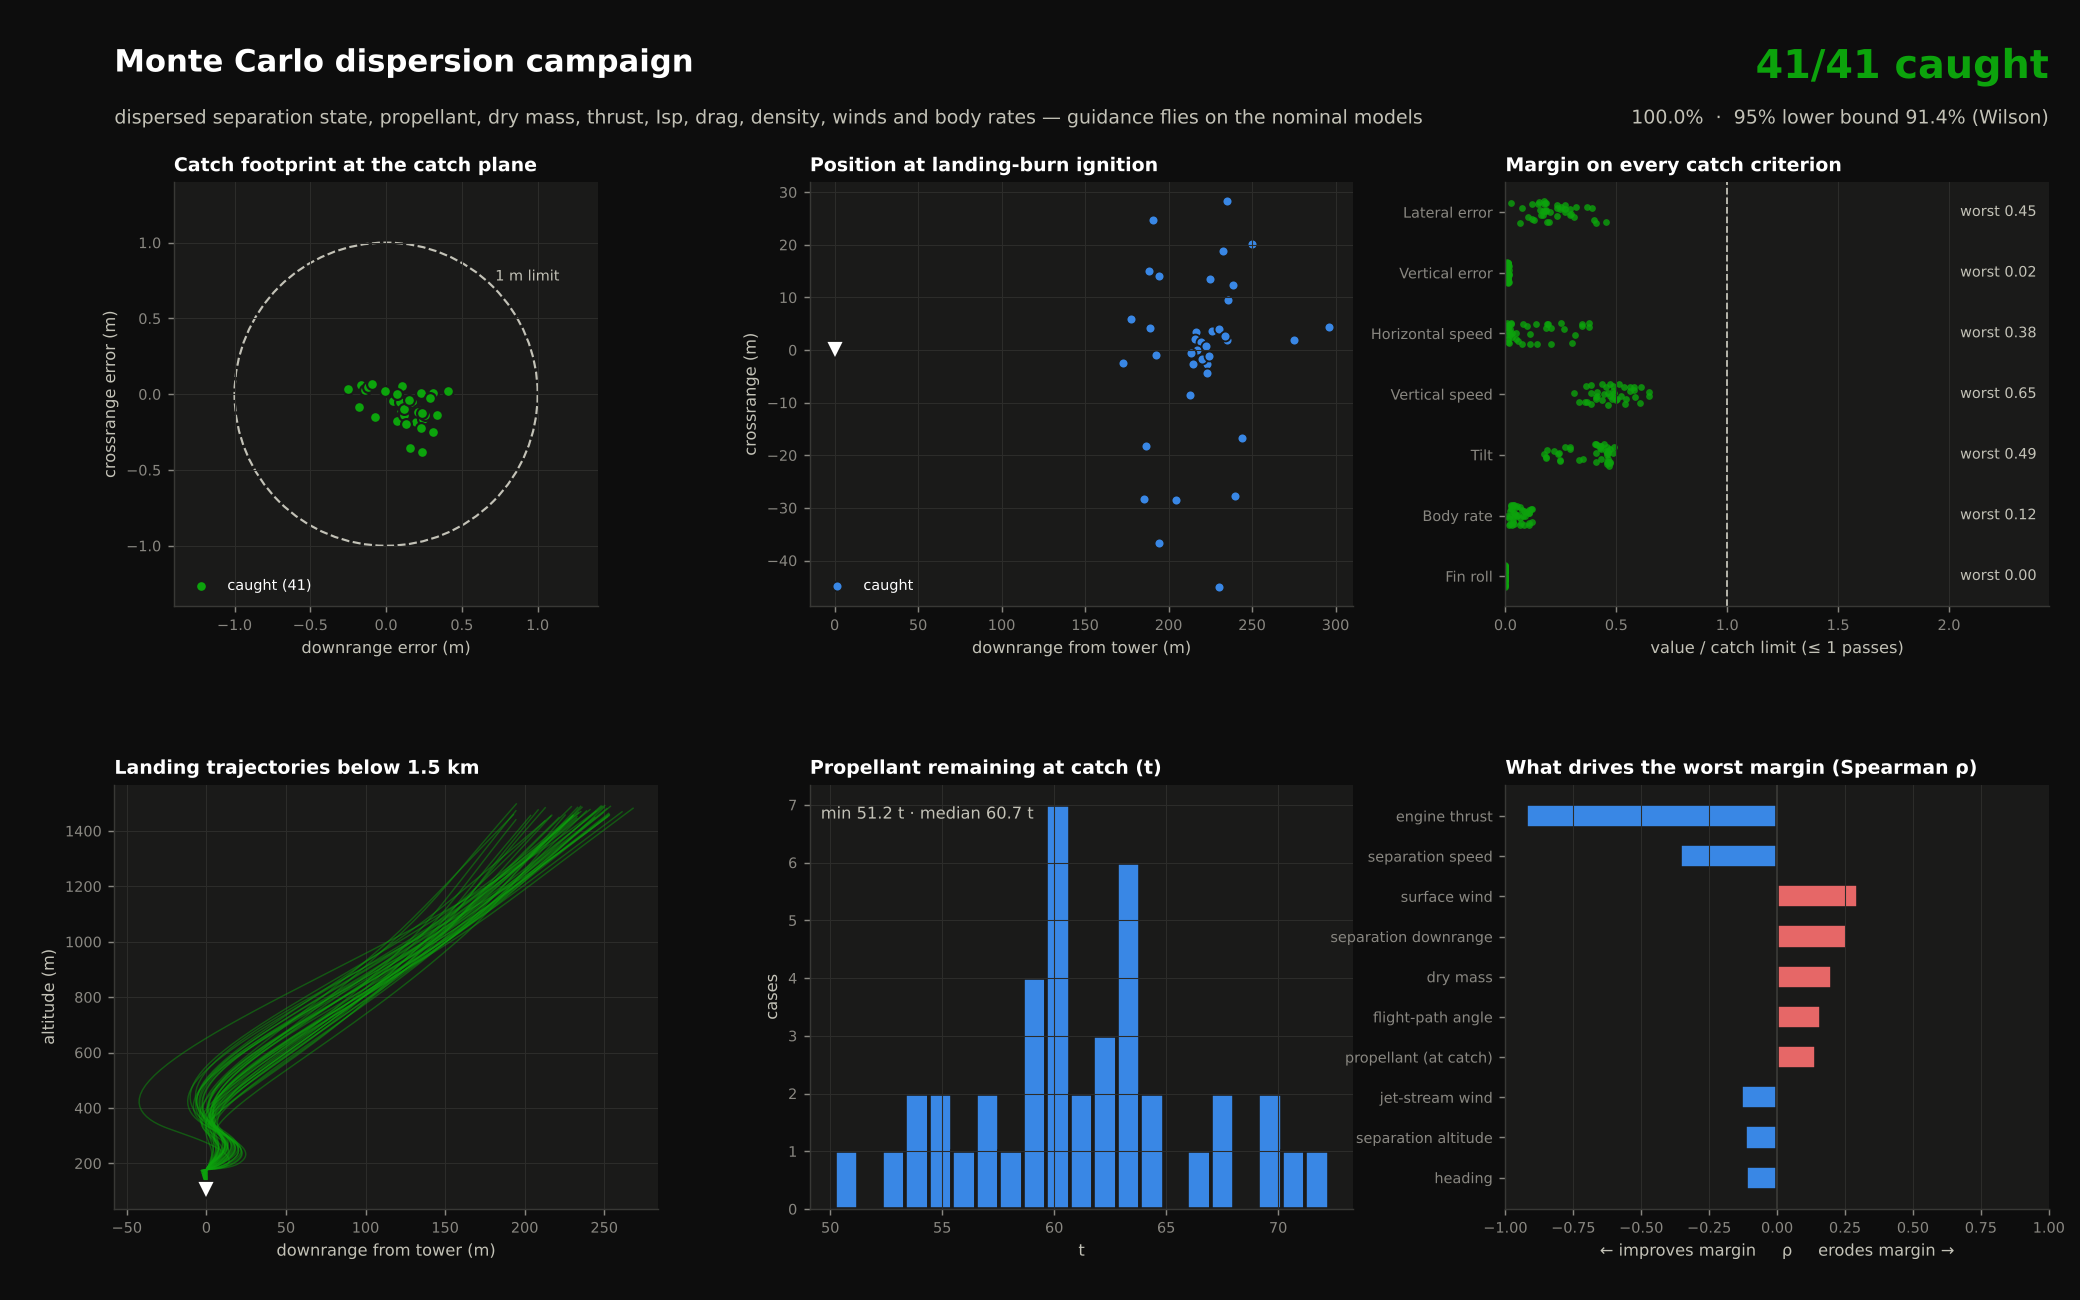
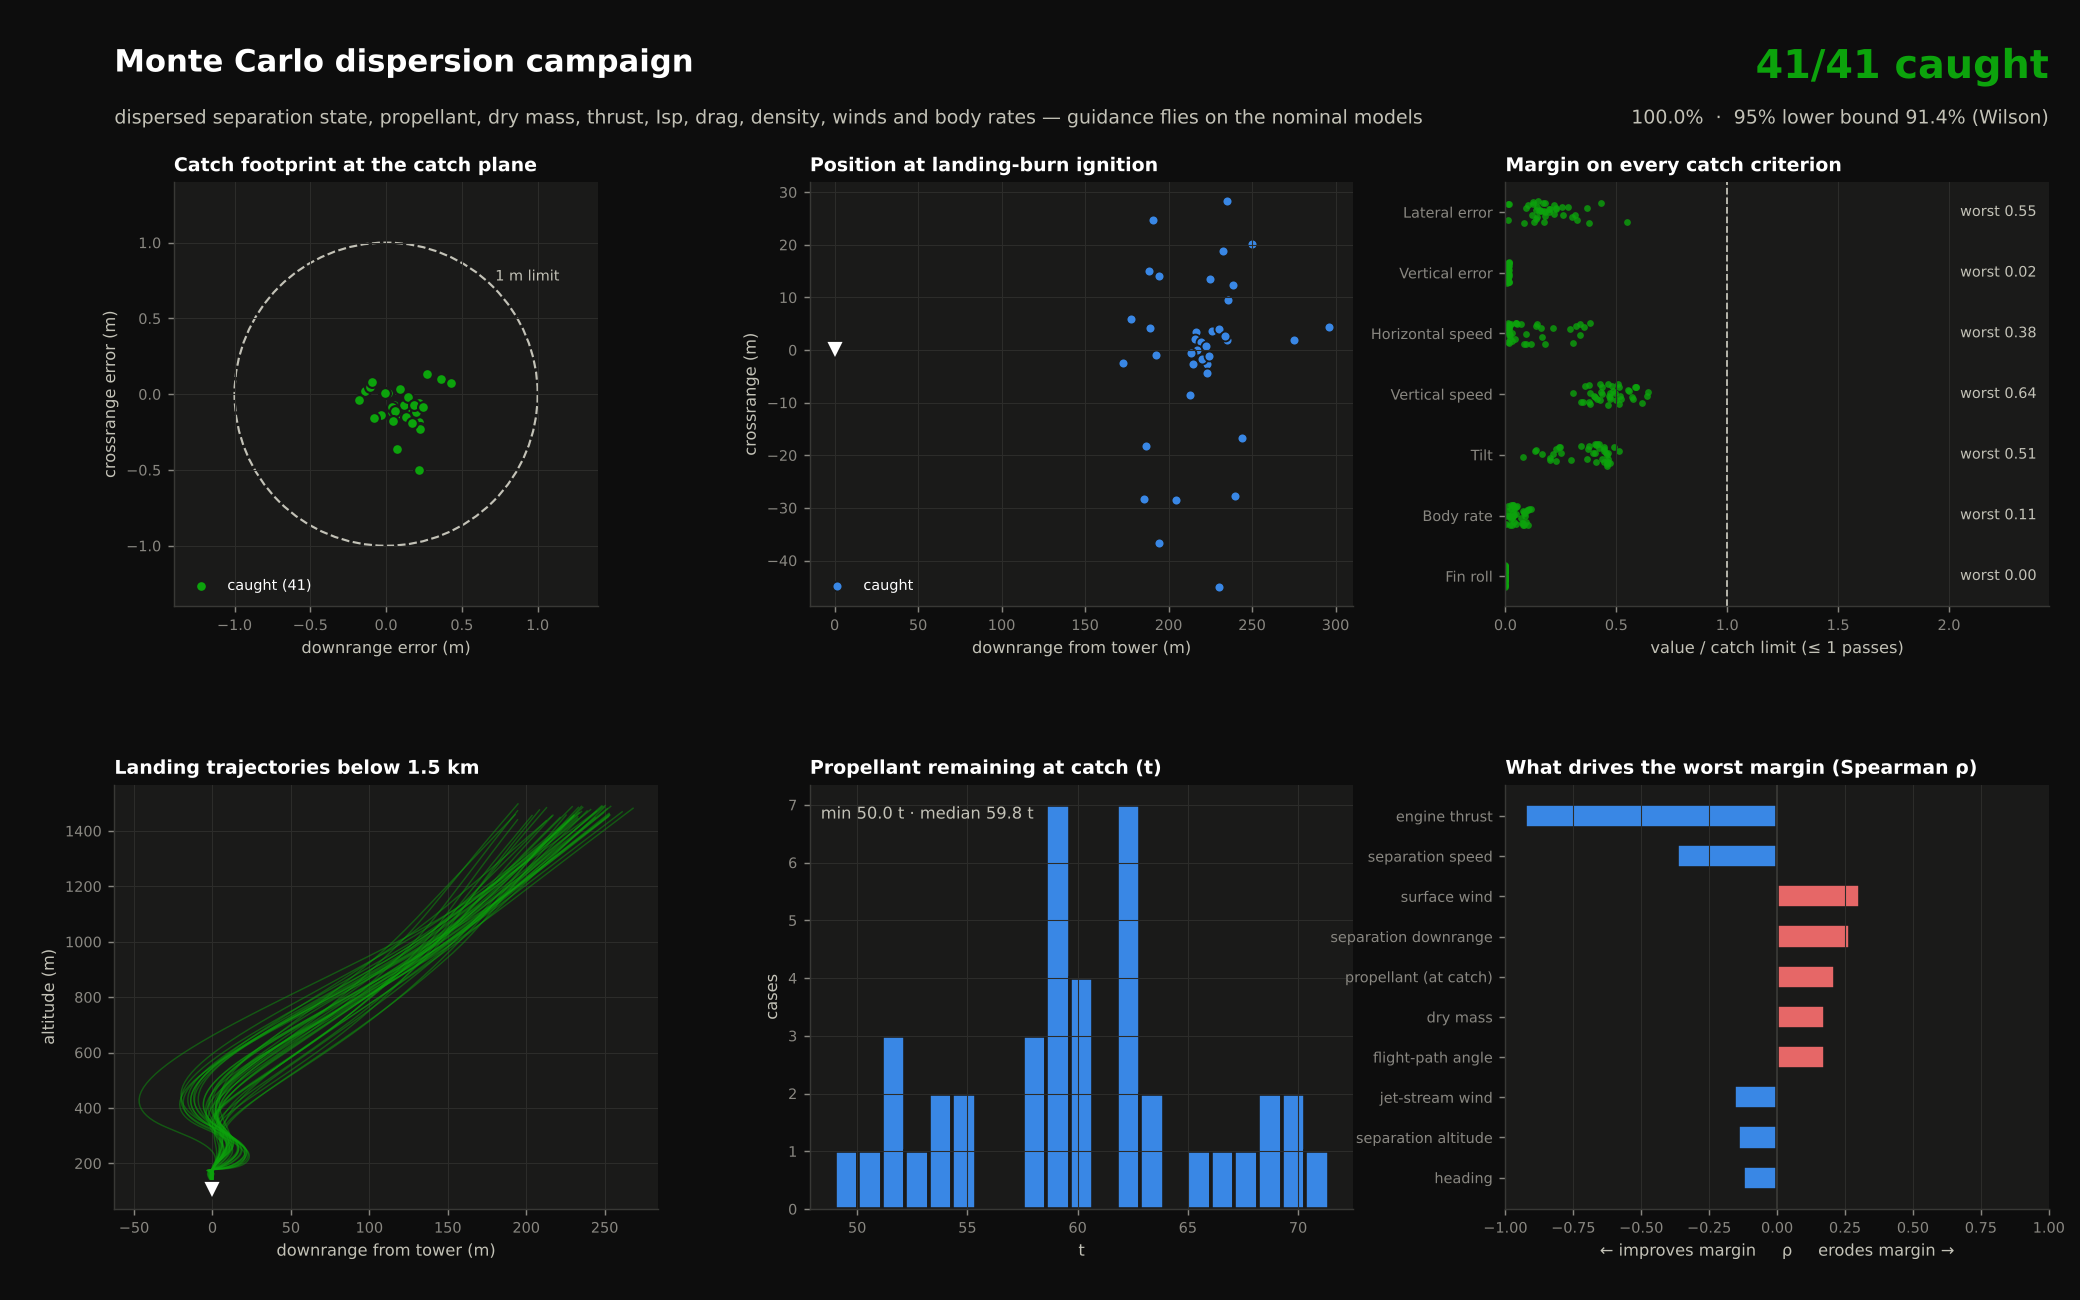
Monte Carlo: Flight 15 profile on CFD aero 41/41; default profile 41/41
Claude-Session: https://claude.ai/code/session_01UWG1WERXxcxRgYaPocUTn6

diff --git a/README.md b/README.md
@@ -298,7 +298,10 @@ Control derivatives:
 
 The landing burn ignites at ~2.1 km and ~446 m/s (Flight 15: ~3 km, on an
 offshore divert), goes 13 → 5 at ~1.3 km and 5 → 3 at ~330 m, and the catch
-leaves ~37 t of propellant. `--flight 13`, the default, is the original
+leaves ~37 t of propellant. Monte Carlo (40 dispersed cases + nominal,
+`figs/monte_carlo_flight15.png`): 41/41 caught, ignition 1.5–3.0 km, at
+least 3.1 m of hull clearance, 12.6–~45 t of propellant left (median 31 t).
+The default profile on the same code: 41/41, at least 50 t left. `--flight 13`, the default, is the original
 calibration on the estimated aerodynamics.
 
 What flying on the CFD aerodynamics took:
